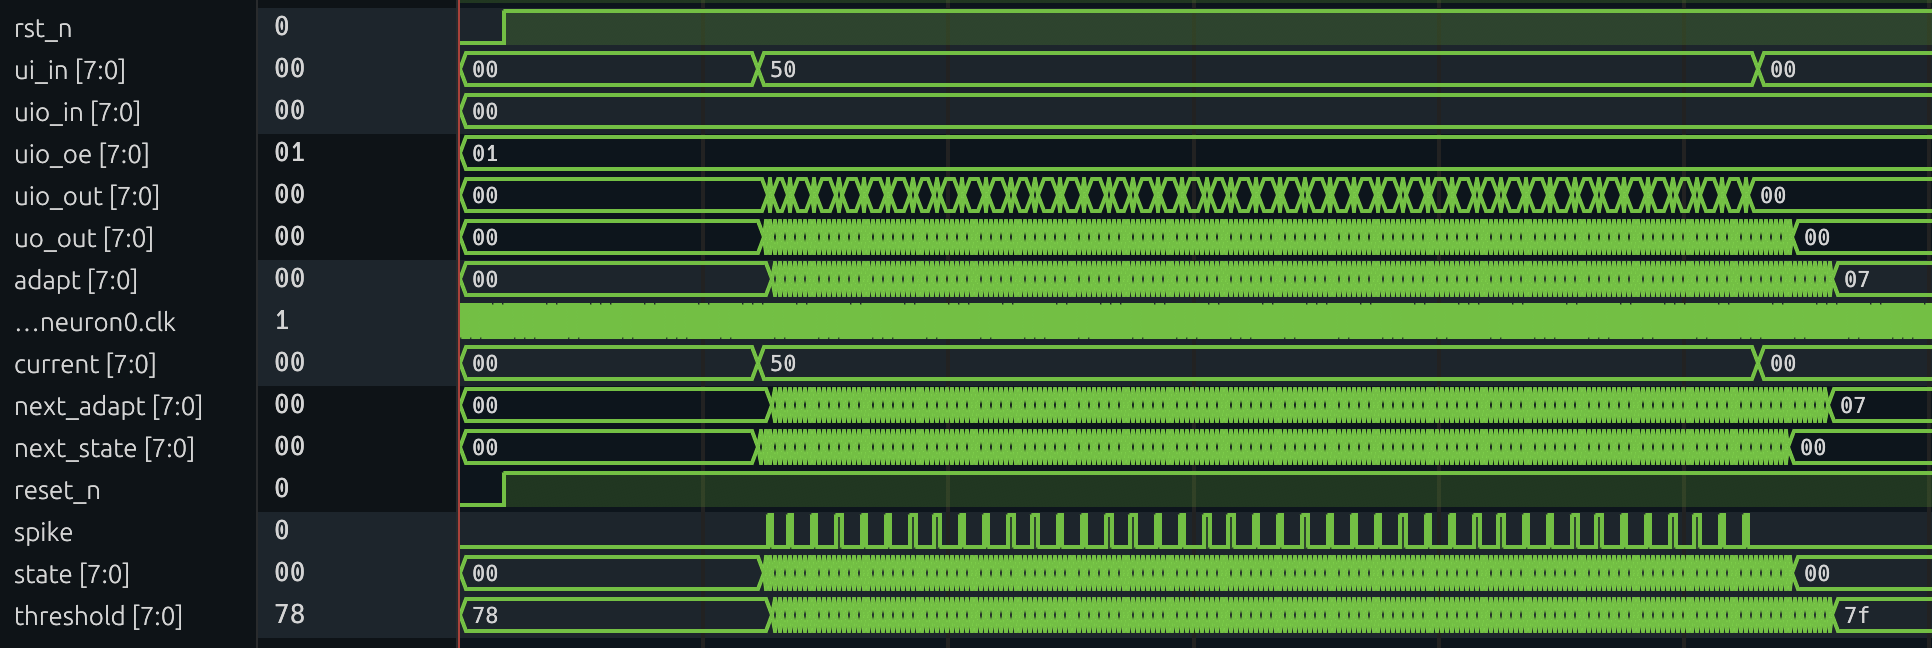
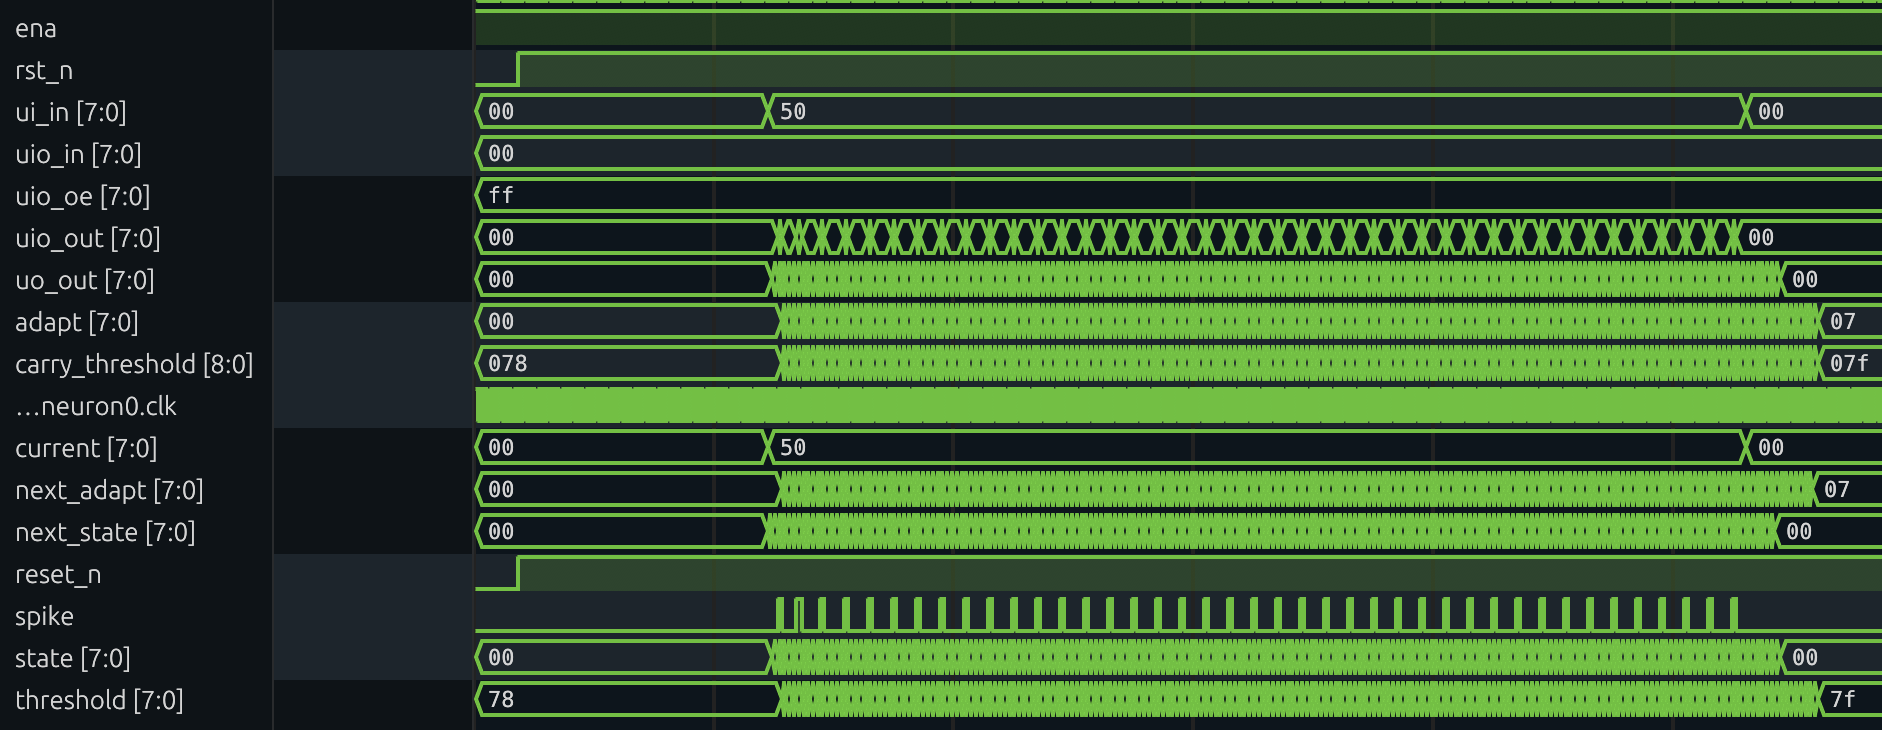
Made fix to handle the carry and updated the Waveform and info.md

diff --git a/docs/info.md b/docs/info.md
@@ -38,10 +38,11 @@ This models:
 - Leakage (the membrane voltage decays by 50% each cycle)
 - Using 50% as it maps easily to hardware
 
-The neuron compares the membrane state against a **dynamic threshold**:
+The neuron compares the membrane state against a **dynamic threshold**, but first calculates the full threshold and checks if the carry is 1, and then saturates:
 
 ```verilog
-assign threshold = BASE_THRESHOLD + adapt
+assign carry_threshold = BASE_THRESHOLD + adapt;
+assign threshold = (carry_threshold[8]) ? 8'd255 : BASE_THRESHOLD + adapt;
 ```
 
 Where:
@@ -81,6 +82,7 @@ make -B
 
 It has 5 tests
 The testbench includes 6 automated tests that verify:
+
 0. Reset
 1. No spontaneous spike
 2. Constant input causes spike
